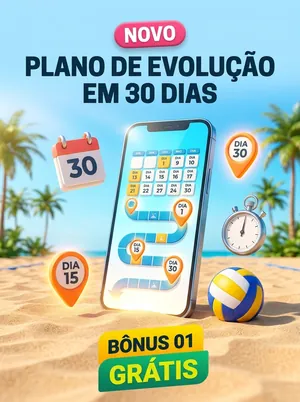
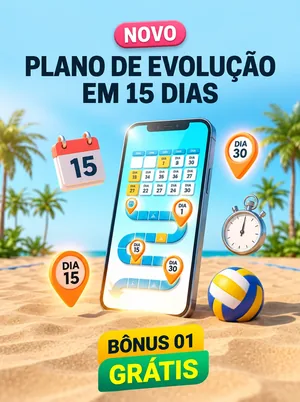
Título da página para alunos e capa nova do Bônus 1
Claude-Session: https://claude.ai/code/session_013vDSHf3z3SrpcJTAuW29vw

diff --git a/index.html b/index.html
@@ -3,15 +3,15 @@
   <head>
     <meta charset="UTF-8" />
     <meta name="viewport" content="width=device-width, initial-scale=1.0" />
-    <title>Código da Areia | +240 Exercícios de Vôlei de Praia Prontos</title>
+    <title>Código da Areia | +420 Treinos de Vôlei de Praia no Celular</title>
     
     <!-- Favicon e Ícones -->
     <link rel="icon" type="image/svg+xml" href="/favicon.svg" />
     <link rel="shortcut icon" href="/favicon.svg" />
     <link rel="apple-touch-icon" href="/favicon.svg" />
-    <meta name="description" content="+240 Exercícios de Vôlei de Praia Prontos para a sua próxima aula no seu celular. Organizado pelo Código da Areia." />
-    <meta property="og:title" content="Código da Areia | +240 Exercícios de Vôlei de Praia Prontos" />
-    <meta property="og:description" content="+240 Exercícios de Vôlei de Praia Prontos para a sua próxima aula no seu celular." />
+    <meta name="description" content="+420 treinos de vôlei de praia no seu celular, na areia e em casa, do iniciante ao avançado. Evolua em 15 dias com o Código da Areia." />
+    <meta property="og:title" content="Código da Areia | +420 Treinos de Vôlei de Praia no Celular" />
+    <meta property="og:description" content="+420 treinos de vôlei de praia no seu celular, na areia e em casa, do iniciante ao avançado." />
     <meta property="og:type" content="website" />
     <meta name="twitter:card" content="summary_large_image" />
 
